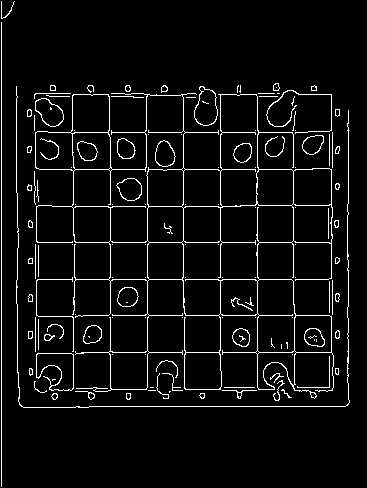
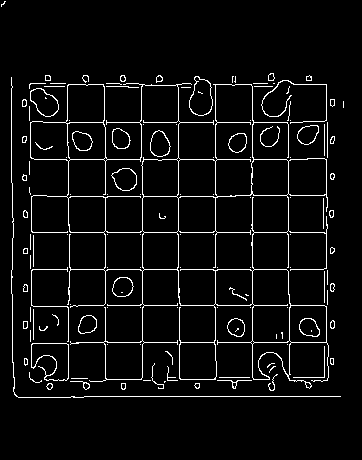
SCRUM-50 fix horizontal and vertical line drawing

Changed region(s): [[0.0304, 0.1522, 0.9724, 0.8522], [0.0, 0.0, 0.0608, 0.0609]]

diff --git a/hook_lens/src/inference.rs b/hook_lens/src/inference.rs
@@ -1,92 +1,110 @@
 use std::f32::consts::PI;
-use std::f32::EPSILON;
-
-use burn::prelude::Backend;
+// use burn::prelude::Backend;
 use image::{DynamicImage, Rgb};
 use imageproc::edges::canny;
-use imageproc::hough::{self, LineDetectionOptions, PolarLine};
+use imageproc::hough::{self, LineDetectionOptions};
 
 pub fn infer/*<B: Backend>*/(/*artifact_dir: &str,  device: B::Device, */board: DynamicImage) {
     
     // apply canny edge
     let luma_board = board.to_luma8();
-    let low_threshold = 1.0;
-    let high_threshold = 50.0;
+    let low_threshold = 44.0;
+    let high_threshold = 55.0;
     let canny_board = canny(&luma_board, low_threshold, high_threshold);
-    canny_board.save("hook_lens\\canny_board.png");
+    canny_board.save("hook_lens\\canny_board.png").unwrap();
 
     // apply hough line detection
     let options = LineDetectionOptions {
         vote_threshold: 120,
         suppression_radius: 8,
     };
-    let mut polar_lines = hough::detect_lines(&canny_board, options);
-    let mut polar_lines2  : Vec<PolarLine> = Vec::new();
 
-    let mut horizontal_lines : Vec<PolarLine> = Vec::new();
-    let mut vertical_lines  :  Vec<PolarLine> = Vec::new();
-    for line in &polar_lines { 
-        // in this part of code we  must separate the polar lines to horizontals and vertical 
-        // to pass it to the function that create intersection points
+    let polar_lines = hough::detect_lines(&canny_board, options);
+    let mut vert_lines = Vec::new();
+    let mut hor_lines = Vec::new();
 
-        // the logic is not correct  so correct this part
-        println!("r = {} , angle = {}" , line.r , line.angle_in_degrees);
-        if line.angle_in_degrees >100 && line.angle_in_degrees < 130  { 
-            horizontal_lines.push(*line);
-        }
-        else if line.angle_in_degrees < 77 {
-            vertical_lines.push(*line);
+    for line in &polar_lines {
+        if (line.angle_in_degrees < 15) || (line.angle_in_degrees > 165) {
+            println!("vertical lines");
+            println!("angle = {}", line.angle_in_degrees);
+            println!("r = {}", line.r);
+            vert_lines.push(line.clone());
+        }else if (line.angle_in_degrees < 105) && (line.angle_in_degrees > 75) {
+            println!("horizontal lines");
+            println!("angle = {}", line.angle_in_degrees);
+            println!("r = {}", line.r);
+            hor_lines.push(line.clone());
         }
     }
+    
+    println!("horizontal distance");
+    let mut h = Vec::new();
+    for i in 0..hor_lines.len() -1 {
+        let r1 = hor_lines[i].r;
+        let r2 = hor_lines[i+1].r;
+        let theta1 = hor_lines[i].angle_in_degrees as f32 * PI/180.0;
+        let theta2 = hor_lines[i].angle_in_degrees as f32 * PI/180.0;
+
+        let distance = f32::sqrt(r1.powi(2) + r2.powi(2) - 2.0 * r1 * r2 * f32::cos(theta1 - theta2)); 
+        if distance > 50.0 && distance < 60.0 {
+            h.push(i+1);
+        }
+        println!("distance = {}", distance);
+    }
+    
+    for i in h {
+        hor_lines.remove(i);
+    }
+    
+    println!("vertical distance");
+    let mut v = Vec::new();
+    for i in 0..vert_lines.len() -1 {
+        let r1 = vert_lines[i].r;
+        let r2 = vert_lines[i+1].r;
+        let theta1 = vert_lines[i].angle_in_degrees as f32 * PI/180.0;
+        let theta2 = vert_lines[i].angle_in_degrees as f32 * PI/180.0;
+
+        let distance = f32::sqrt(r1.powi(2) + r2.powi(2) - 2.0 * r1 * r2 * f32::cos(theta1 - theta2)); 
+        if distance > 50.0 && distance < 60.0 {
+            v.push(i+1);
+        }
+        println!("distance = {}", distance);
+    }
+
+    for i in v {
+        vert_lines.remove(i);
+    }
+    
+    // calc intersections 
+    for vert in &vert_lines {
+        for hor in &hor_lines {
+            let r1 = vert.r;
+            let theta1 = vert.angle_in_degrees as f32 * PI/180.0;
+            let r2 = hor.r;
+            let theta2 = hor.angle_in_degrees as f32 * PI/180.0;
+
+            let x1 = r1 * f32::cos(theta1);
+            let y1 = r1 * f32::sin(theta1);
+
+            let x2 = r2 * f32::cos(theta2);
+            let y2 = r2 * f32::sin(theta2);
+            
+            let c1 = r1 * (f32::cos(theta1) - f32::sin(theta1));
+            let c2 = r2 * (f32::cos(theta2) - f32::sin(theta2));
+            
+            let slope1 = y1 / x1;
+            let slope2 = y2 / x2;
+            
+        }
+    }
+
+    let hor_hough = hough::draw_polar_lines(&board.to_rgb8(), &hor_lines, Rgb([255, 0, 0]));
+    hor_hough.save("hook_lens\\hor_hough.png").unwrap();
+
+    let vert_hough = hough::draw_polar_lines(&board.to_rgb8(), &vert_lines, Rgb([255, 0, 0]));
+    vert_hough.save("hook_lens\\vert_hough.png").unwrap();
+
     let hough_board = hough::draw_polar_lines(&board.to_rgb8(), &polar_lines, Rgb([255, 0, 0]));
-    hough_board.save("hook_lens\\hough_board.png");
+    hough_board.save("hook_lens\\hough_board.png").unwrap();
     
-    let intersections = find_intersections(&horizontal_lines, &vertical_lines);
-    println!("len = {}" , intersections.len());
-    // // split image to 64 square images so it can be passed to CNN
-    // for i in 0..64 {
-
-
-    // }
-    
-
-
-}
-struct Point {
-    x: f32,
-    y: f32,
-}
-// Calculate intersection between two lines in polar coordinates
-fn calculate_intersection(line1: PolarLine, line2: PolarLine) -> Option<Point> {
-    let theta1 = (line1.angle_in_degrees as f32) * PI / 180.0;
-    let theta2 = (line2.angle_in_degrees as f32) * PI / 180.0;
-
-    let sin1 = theta1.sin();
-    let cos1 = theta1.cos();
-    let sin2 = theta2.sin();
-    let cos2 = theta2.cos();
-
-    let determinant = cos1 * sin2 - sin1 * cos2;
-
-    if determinant.abs() < EPSILON {
-        // Lines are parallel
-        return None;
-    }
-
-    let x = (line2.r * sin1 - line1.r * sin2) / determinant;
-    let y = (line1.r * cos2 - line2.r * cos1) / determinant;
-    Some(Point { x, y })
-}
-// Find intersections for horizontal and vertical lines
-fn find_intersections(horizontal_lines: &Vec<PolarLine>, vertical_lines: &Vec<PolarLine>) -> Vec<Point> {
-    let mut intersections = Vec::new();
-
-    for &h_line in horizontal_lines {
-        for &v_line in vertical_lines {
-            if let Some(intersection) = calculate_intersection(h_line, v_line) {
-                intersections.push(intersection);
-            }
-        }
-    }
-    intersections
 }
